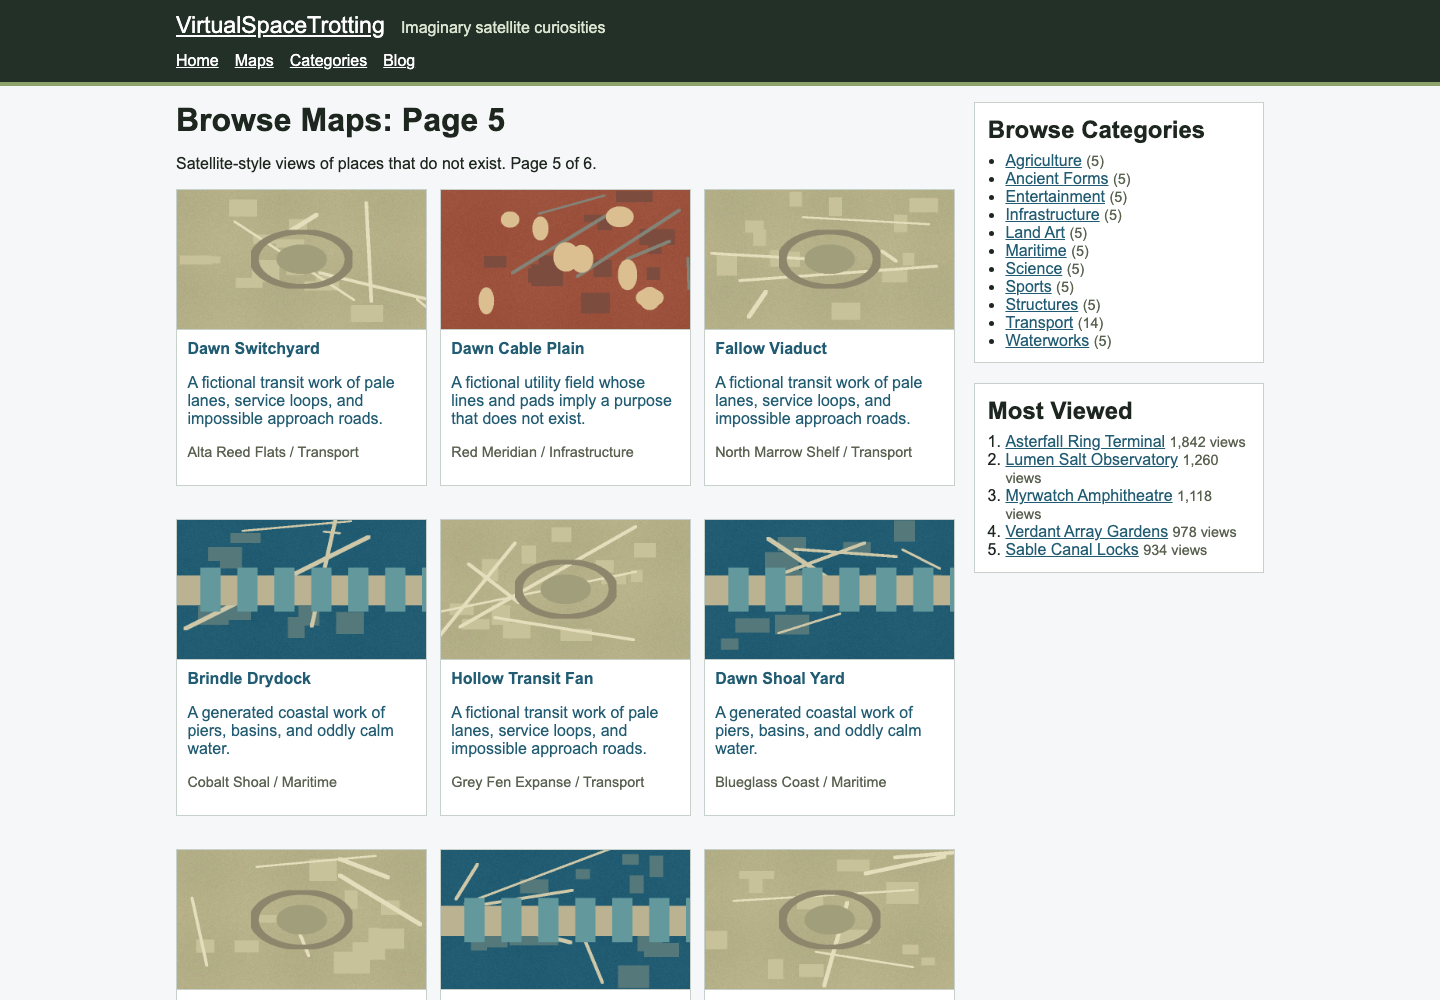
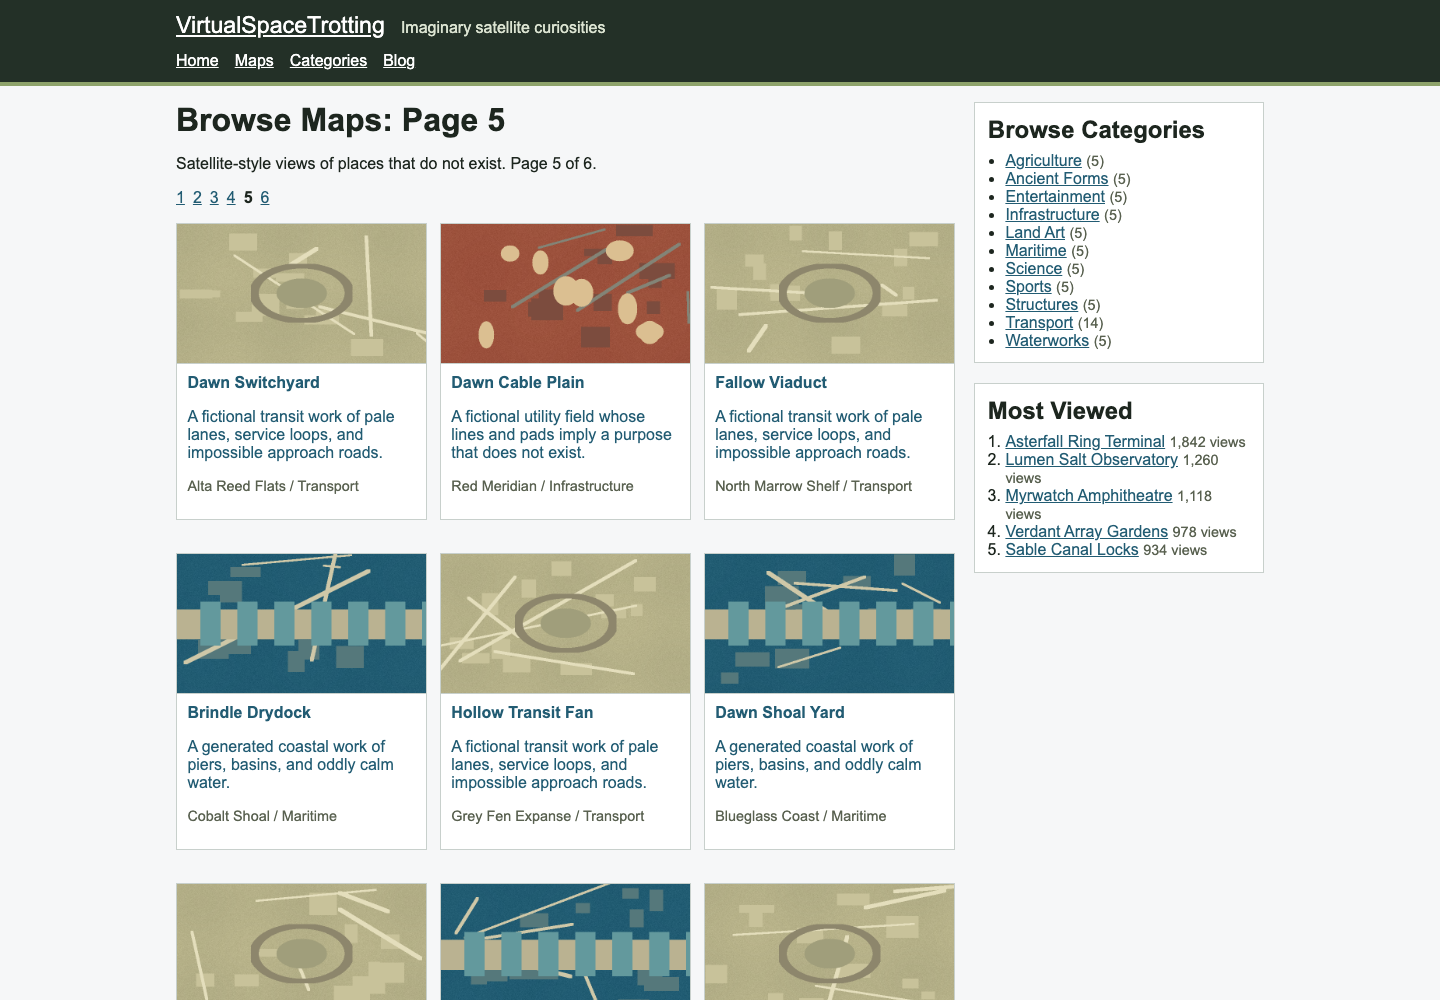
Move listing pagination above cards

Changed region(s): [[0.125, 0.186, 0.6875, 1.0]]

diff --git a/site/src/routes/categories/[slug]/+page.svelte b/site/src/routes/categories/[slug]/+page.svelte
@@ -12,8 +12,8 @@
     <p>
       {data.category.count} fictional generated maps in this category. Page {data.page.currentPage} of {data.page.totalPages}.
     </p>
-    <LocationList locations={data.locations} />
     <PageNav page={data.page} basePath={`/categories/${data.category.slug}`} />
+    <LocationList locations={data.locations} />
   </section>
 
   <SiteSidebar />

diff --git a/site/src/routes/categories/[slug]/page/[page]/+page.svelte b/site/src/routes/categories/[slug]/page/[page]/+page.svelte
@@ -12,8 +12,8 @@
     <p>
       {data.category.count} fictional generated maps in this category. Page {data.page.currentPage} of {data.page.totalPages}.
     </p>
-    <LocationList locations={data.locations} />
     <PageNav page={data.page} basePath={`/categories/${data.category.slug}`} />
+    <LocationList locations={data.locations} />
   </section>
 
   <SiteSidebar />

diff --git a/site/src/routes/maps/+page.svelte b/site/src/routes/maps/+page.svelte
@@ -10,8 +10,8 @@
   <section aria-labelledby="all-maps">
     <h1 id="all-maps">Browse Maps</h1>
     <p>Satellite-style views of places that do not exist. Page {data.page.currentPage} of {data.page.totalPages}.</p>
-    <LocationList locations={data.locations} />
     <PageNav page={data.page} basePath="/maps" />
+    <LocationList locations={data.locations} />
   </section>
 
   <SiteSidebar />

diff --git a/site/src/routes/maps/page/[page]/+page.svelte b/site/src/routes/maps/page/[page]/+page.svelte
@@ -10,8 +10,8 @@
   <section aria-labelledby="all-maps">
     <h1 id="all-maps">{data.title}</h1>
     <p>Satellite-style views of places that do not exist. Page {data.page.currentPage} of {data.page.totalPages}.</p>
-    <LocationList locations={data.locations} />
     <PageNav page={data.page} basePath="/maps" />
+    <LocationList locations={data.locations} />
   </section>
 
   <SiteSidebar />

diff --git a/scripts/tests/test_static_output_contract.py b/scripts/tests/test_static_output_contract.py
@@ -6,6 +6,12 @@ REPO_ROOT = Path(__file__).resolve().parents[2]
 ROOT_LAYOUT = REPO_ROOT / "site" / "src" / "routes" / "+layout.js"
 APP_TEMPLATE = REPO_ROOT / "site" / "src" / "app.html"
 SVELTE_CONFIG = REPO_ROOT / "site" / "svelte.config.js"
+LISTING_PAGE_TEMPLATES = [
+    REPO_ROOT / "site" / "src" / "routes" / "maps" / "+page.svelte",
+    REPO_ROOT / "site" / "src" / "routes" / "maps" / "page" / "[page]" / "+page.svelte",
+    REPO_ROOT / "site" / "src" / "routes" / "categories" / "[slug]" / "+page.svelte",
+    REPO_ROOT / "site" / "src" / "routes" / "categories" / "[slug]" / "page" / "[page]" / "+page.svelte",
+]
 
 
 class StaticOutputContractTests(unittest.TestCase):
@@ -38,6 +44,13 @@ class StaticOutputContractTests(unittest.TestCase):
                 / "+page.js"
             ).exists()
         )
+
+    def test_listing_pages_place_pagination_before_location_list(self) -> None:
+        for path in LISTING_PAGE_TEMPLATES:
+            with self.subTest(path=path.relative_to(REPO_ROOT)):
+                template = path.read_text(encoding="utf-8")
+
+                self.assertLess(template.index("<PageNav"), template.index("<LocationList"))
 
     def test_static_output_verifier_covers_paginated_depth(self) -> None:
         verifier = (REPO_ROOT / "scripts" / "verify_static_output.py").read_text(encoding="utf-8")